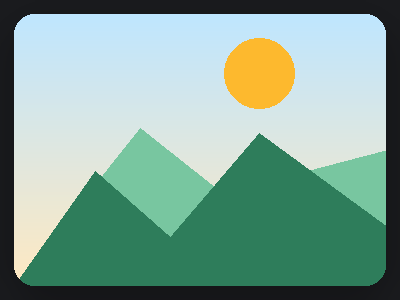
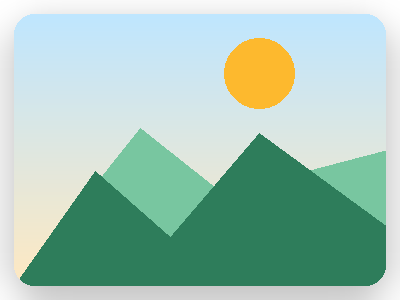
fix(metadata): address Homey App Store certification feedback (v1.0.6)
- Rename app to "Google Photos Slideshow" and widget to "Slideshow"
- Shorten store description to a single tagline sentence
- Rewrite README.txt as plain prose (no markdown headers/bullets/steps)
- Generate widget previews with a transparent background
- Bump version to 1.0.6 with changelog entry

Changed region(s): [[0.0, 0.0, 1.0, 1.0]]

diff --git a/scripts/gen-assets.py b/scripts/gen-assets.py
@@ -168,19 +168,24 @@ def build_banner():
 
 
 # ---- widget previews -------------------------------------------------------
-def build_preview(bg_color, rel):
+def build_preview(rel):
+    # Widget previews must have a transparent background (Homey App Store
+    # guideline 1-10): start from a fully transparent canvas and keep the
+    # RGBA alpha channel — do NOT flatten to RGB, which would bake in an
+    # opaque background.
     W, H = 400, 300
-    img = Image.new("RGBA", (W, H), bg_color + (255,))
+    img = Image.new("RGBA", (W, H), (0, 0, 0, 0))
     card = landscape_card(W - 28, H - 28, 20)
     paste_rotated_with_shadow(img, card, (W // 2, H // 2), 0,
                               shadow_alpha=70, blur=16, offset=(0, 10))
-    img = img.convert("RGB")
     p = os.path.join(ROOT, rel)
     img.save(p)
-    print(f"wrote {rel} ({W}x{H})")
+    print(f"wrote {rel} ({W}x{H}, transparent)")
 
 
 if __name__ == "__main__":
     build_banner()
-    build_preview((238, 240, 244), "widgets/slideshow/preview-light.png")
-    build_preview((26, 27, 30), "widgets/slideshow/preview-dark.png")
+    # Light and dark share the same transparent preview so it blends into the
+    # widget picker in either theme.
+    build_preview("widgets/slideshow/preview-light.png")
+    build_preview("widgets/slideshow/preview-dark.png")

diff --git a/README.md b/README.md
@@ -1,6 +1,6 @@
 <div align="center">
 
-# 📸 Album Slideshow for G-Photo
+# 📸 Google Photos Slideshow
 
 **Turn any public Google Photos album into a live slideshow on your Homey Pro dashboard — just paste a link.**
 
@@ -56,7 +56,7 @@ cd google-photos-homey-widget
 homey app install
 ```
 
-Then on your dashboard: **Edit → add widget → Album Slideshow**, open
+Then on your dashboard: **Edit → add widget → Slideshow**, open
 its settings, and paste your album link.
 
 > 💡 Prefer live-reload while tinkering? Use `homey app run` instead of